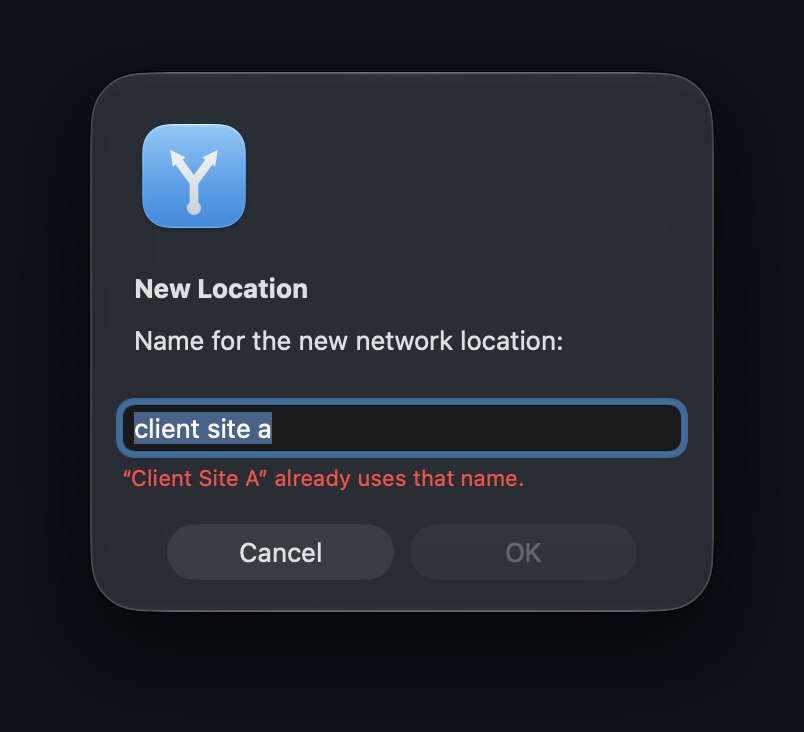
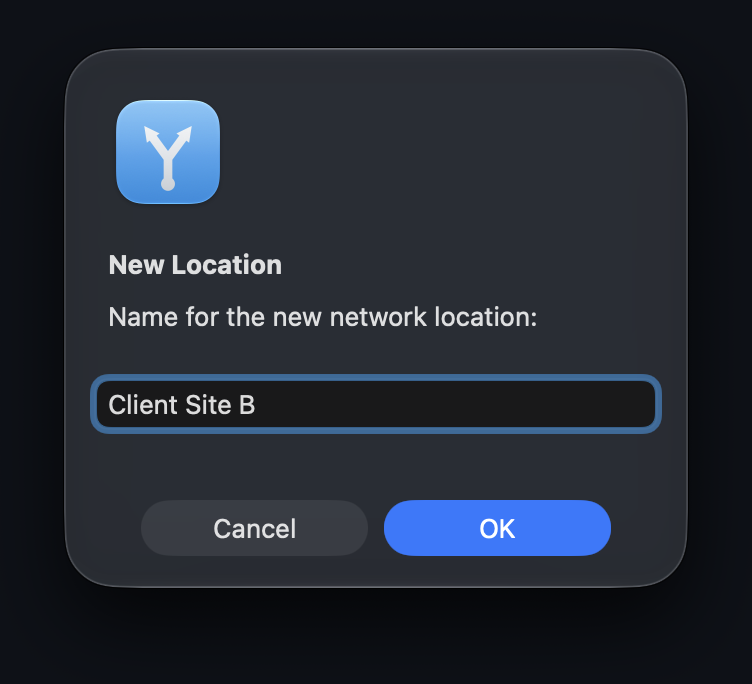
docs: show a valid name in the New Location screenshot
The dialog screenshot showed a duplicate-name error, which read as something broken. It now shows a new name typed in with OK enabled. screenshots.sh can regenerate a subset of views and now waits for a window's bounds to settle (a dialog mid-layout was captured once at the wrong size); dev-build.sh gains --no-install so screenshot work doesn't replace the installed release.

Changed region(s): [[0.0612, 0.0614, 0.9176, 0.8596], [0.2753, 0.7368, 0.3976, 0.7982]]

diff --git a/Switchback/StatusItemController.swift b/Switchback/StatusItemController.swift
@@ -372,9 +372,17 @@ extension StatusItemController {
             manageWindow?.debugSelect(row: 1)    // "Client Site A": shows selection and an enabled −
         case "dialog":
             NSApp.activate(ignoringOtherApps: true)
-            // A case-only duplicate of an existing name, to show the live check.
+            // A new, valid name with OK enabled. Put the caret at the end instead of
+            // selecting the text, so it reads as typing. NSAlert's modal loop fires
+            // timers scheduled in the common modes, not queued main-queue blocks.
+            let caret = Timer(timeInterval: 0.3, repeats: false) { _ in
+                if let editor = NSApp.keyWindow?.firstResponder as? NSTextView {
+                    editor.setSelectedRange(NSRange(location: (editor.string as NSString).length, length: 0))
+                }
+            }
+            RunLoop.main.add(caret, forMode: .common)
             _ = NameDialog(title: "New Location", message: "Name for the new network location:",
-                           initial: "client site a", existing: existingNames()).run()
+                           initial: "Client Site B", existing: existingNames()).run()
         default:
             statusItem.button?.performClick(nil)   // opens the menu
         }

diff --git a/README.md b/README.md
@@ -57,7 +57,7 @@ static-IP setup, that's a multi-step detour replaced by a single click.
 <p align="center">
   <picture>
     <source media="(prefers-color-scheme: dark)" srcset="docs/screenshots/dialog-dark.png">
-    <img src="docs/screenshots/dialog-light.png" alt="The New Location dialog with “client site a” typed in, a red note saying “Client Site A” already uses that name, and OK disabled" width="380">
+    <img src="docs/screenshots/dialog-light.png" alt="The New Location dialog with “Client Site B” typed in and the OK button enabled" width="376">
   </picture>
 </p>
 
